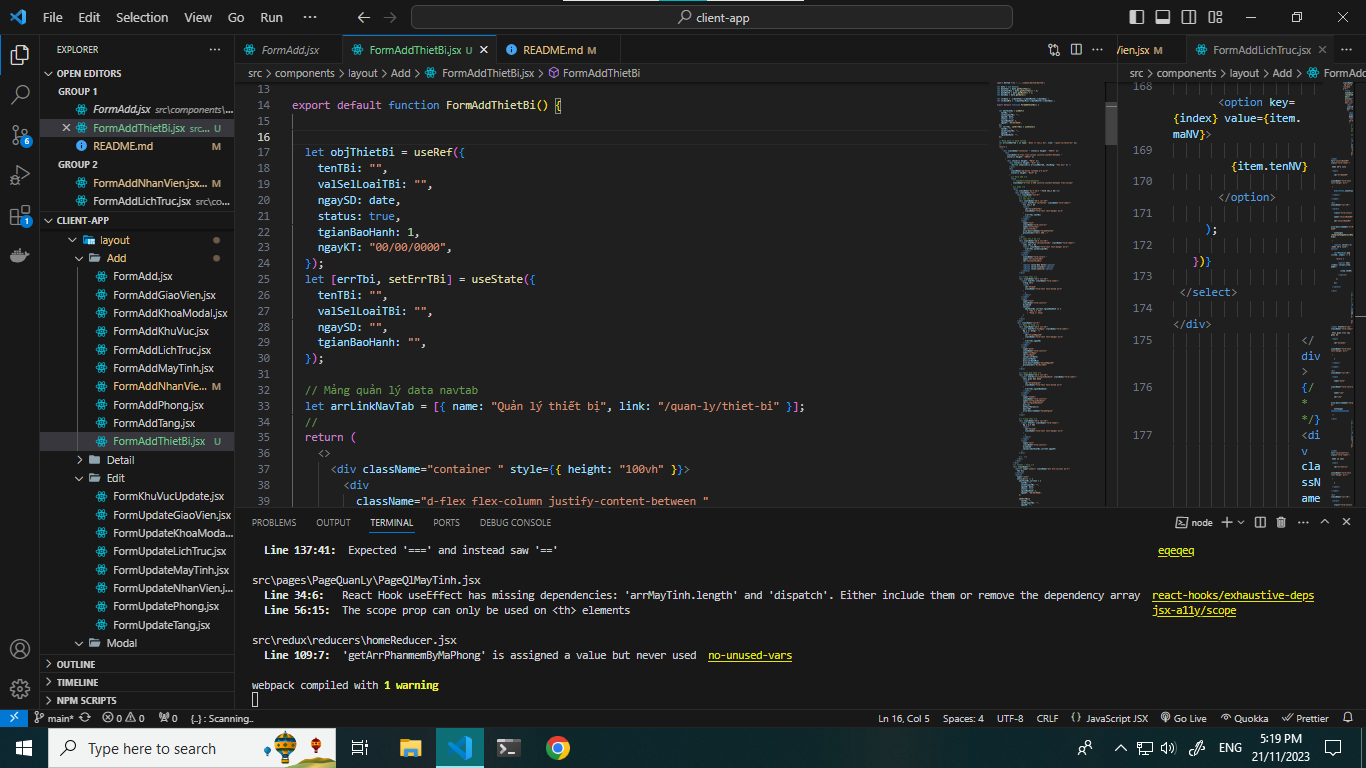
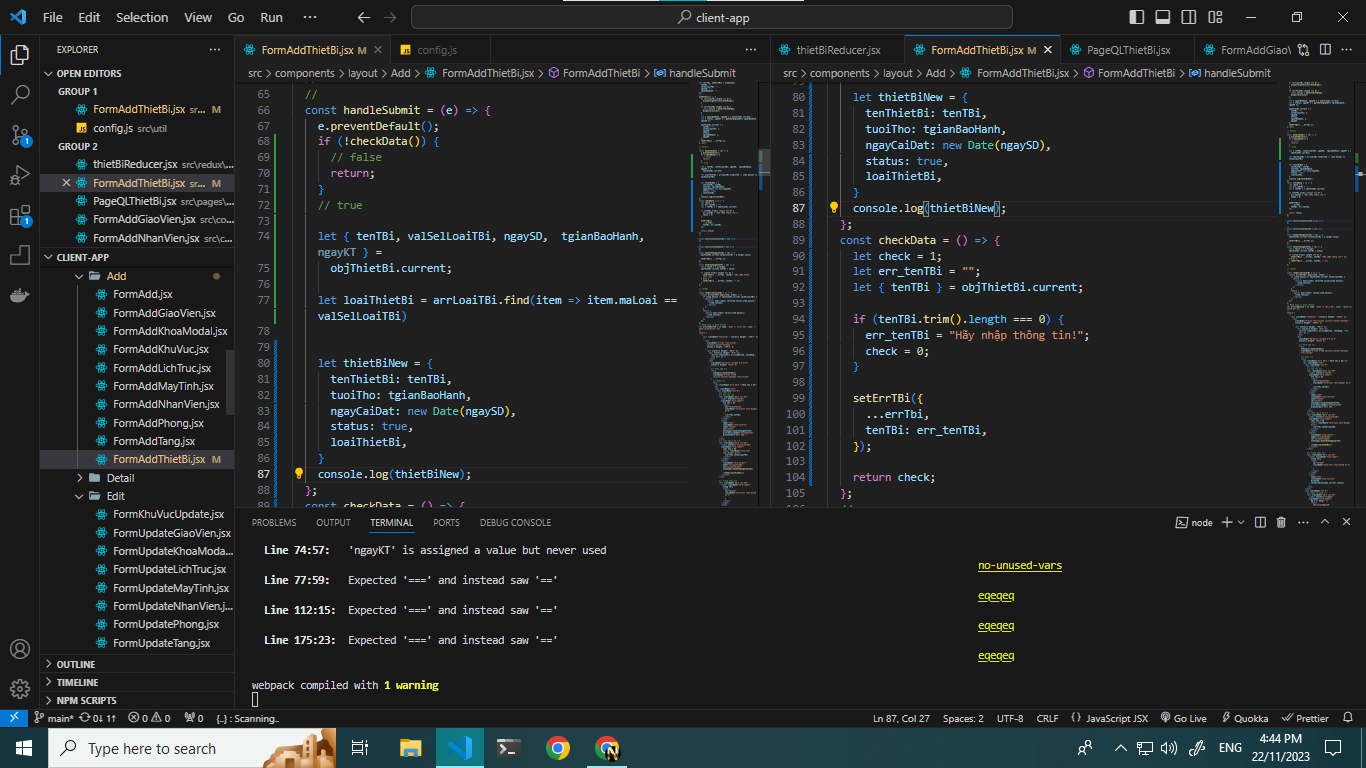
FormADD Tbi: finish regex

diff --git a/src/components/layout/Add/FormAddThietBi.jsx b/src/components/layout/Add/FormAddThietBi.jsx
@@ -65,8 +65,43 @@ export default function FormAddThietBi() {
   //
   const handleSubmit = (e) => {
     e.preventDefault();
+    if (!checkData()) {
+      // false
+      return;
+    }
+    // true
 
-    console.log(objThietBi.current);
+    let { tenTBi, valSelLoaiTBi, ngaySD,  tgianBaoHanh, ngayKT } =
+      objThietBi.current;
+
+    let loaiThietBi = arrLoaiTBi.find(item => item.maLoai == valSelLoaiTBi)
+
+
+    let thietBiNew = {
+      tenThietBi: tenTBi,
+      tuoiTho: tgianBaoHanh,
+      ngayCaiDat: new Date(ngaySD),
+      status: true,
+      loaiThietBi,
+    }
+    console.log(thietBiNew);
+  };
+  const checkData = () => {
+    let check = 1;
+    let err_tenTBi = "";
+    let { tenTBi } = objThietBi.current;
+
+    if (tenTBi.trim().length === 0) {
+      err_tenTBi = "Hãy nhập thông tin!";
+      check = 0;
+    }
+
+    setErrTBi({
+      ...errTbi,
+      tenTBi: err_tenTBi,
+    });
+
+    return check;
   };
   //
 
